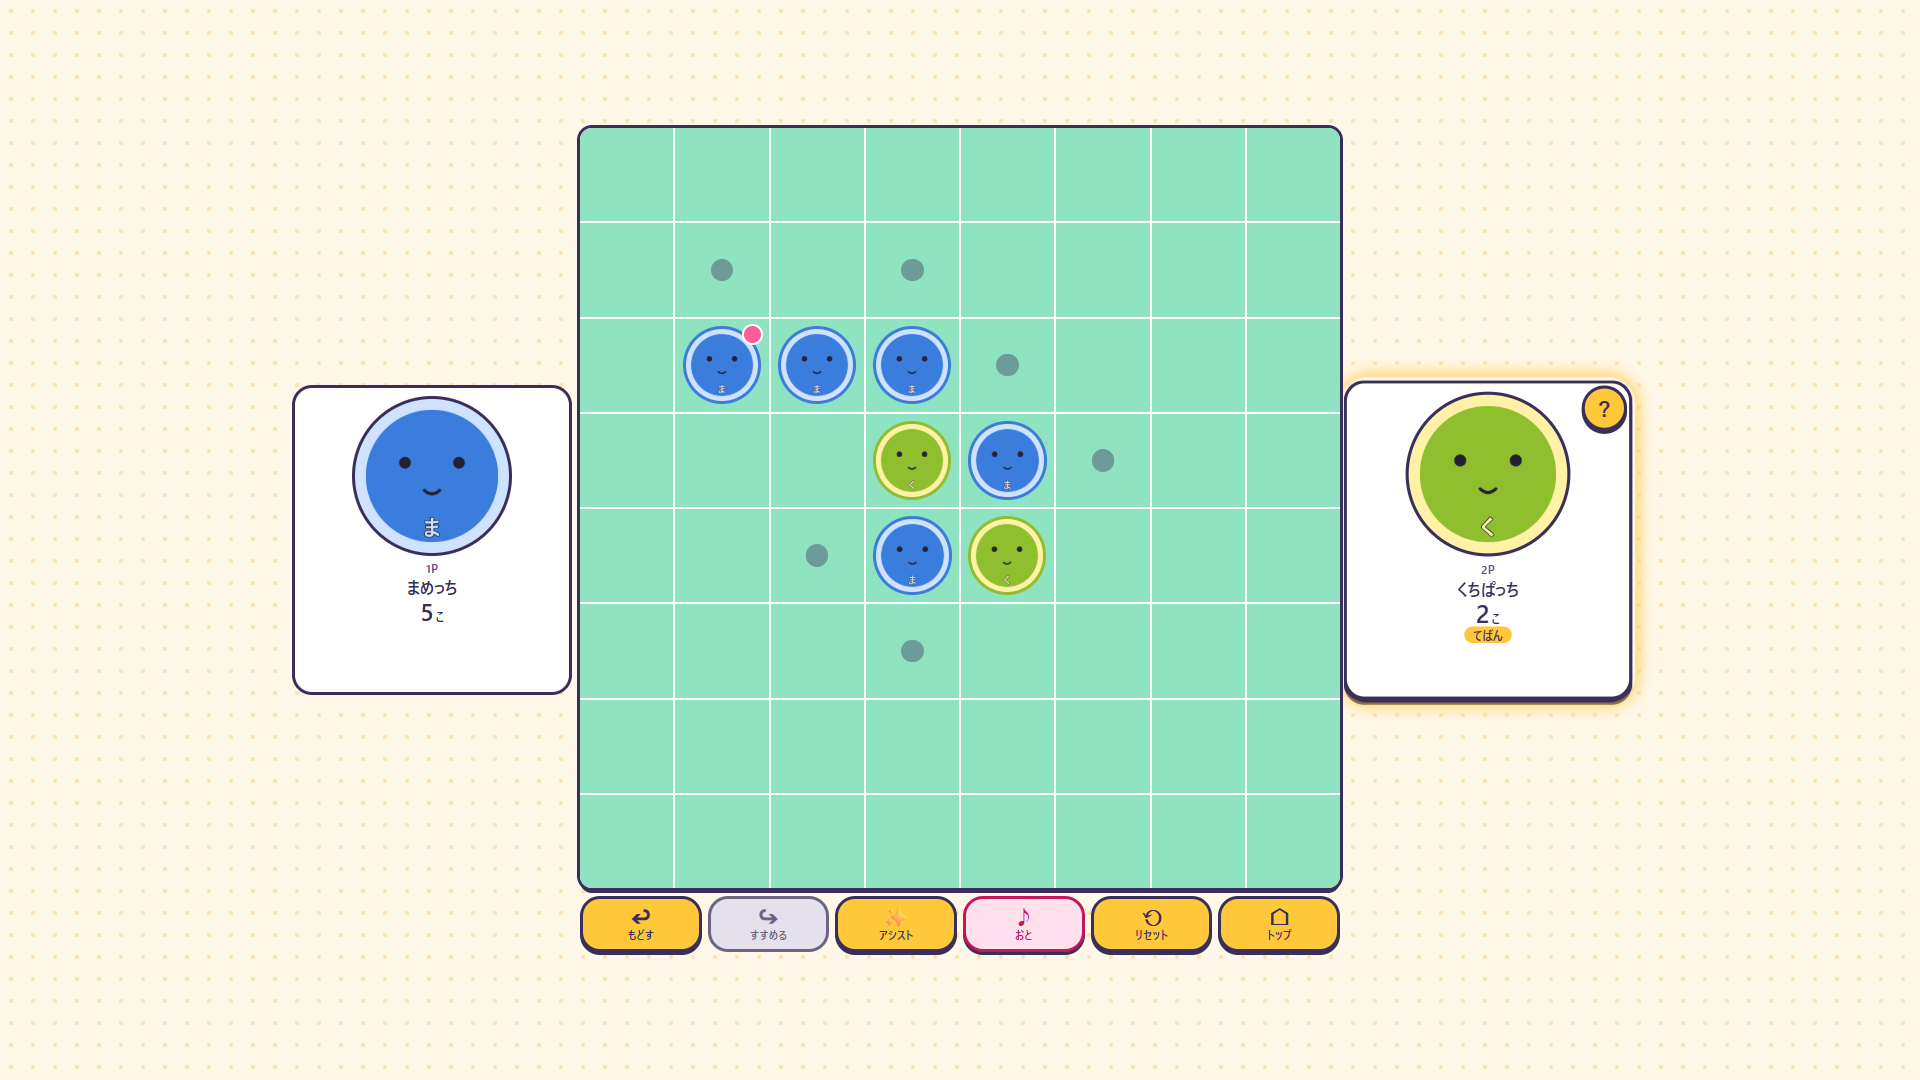
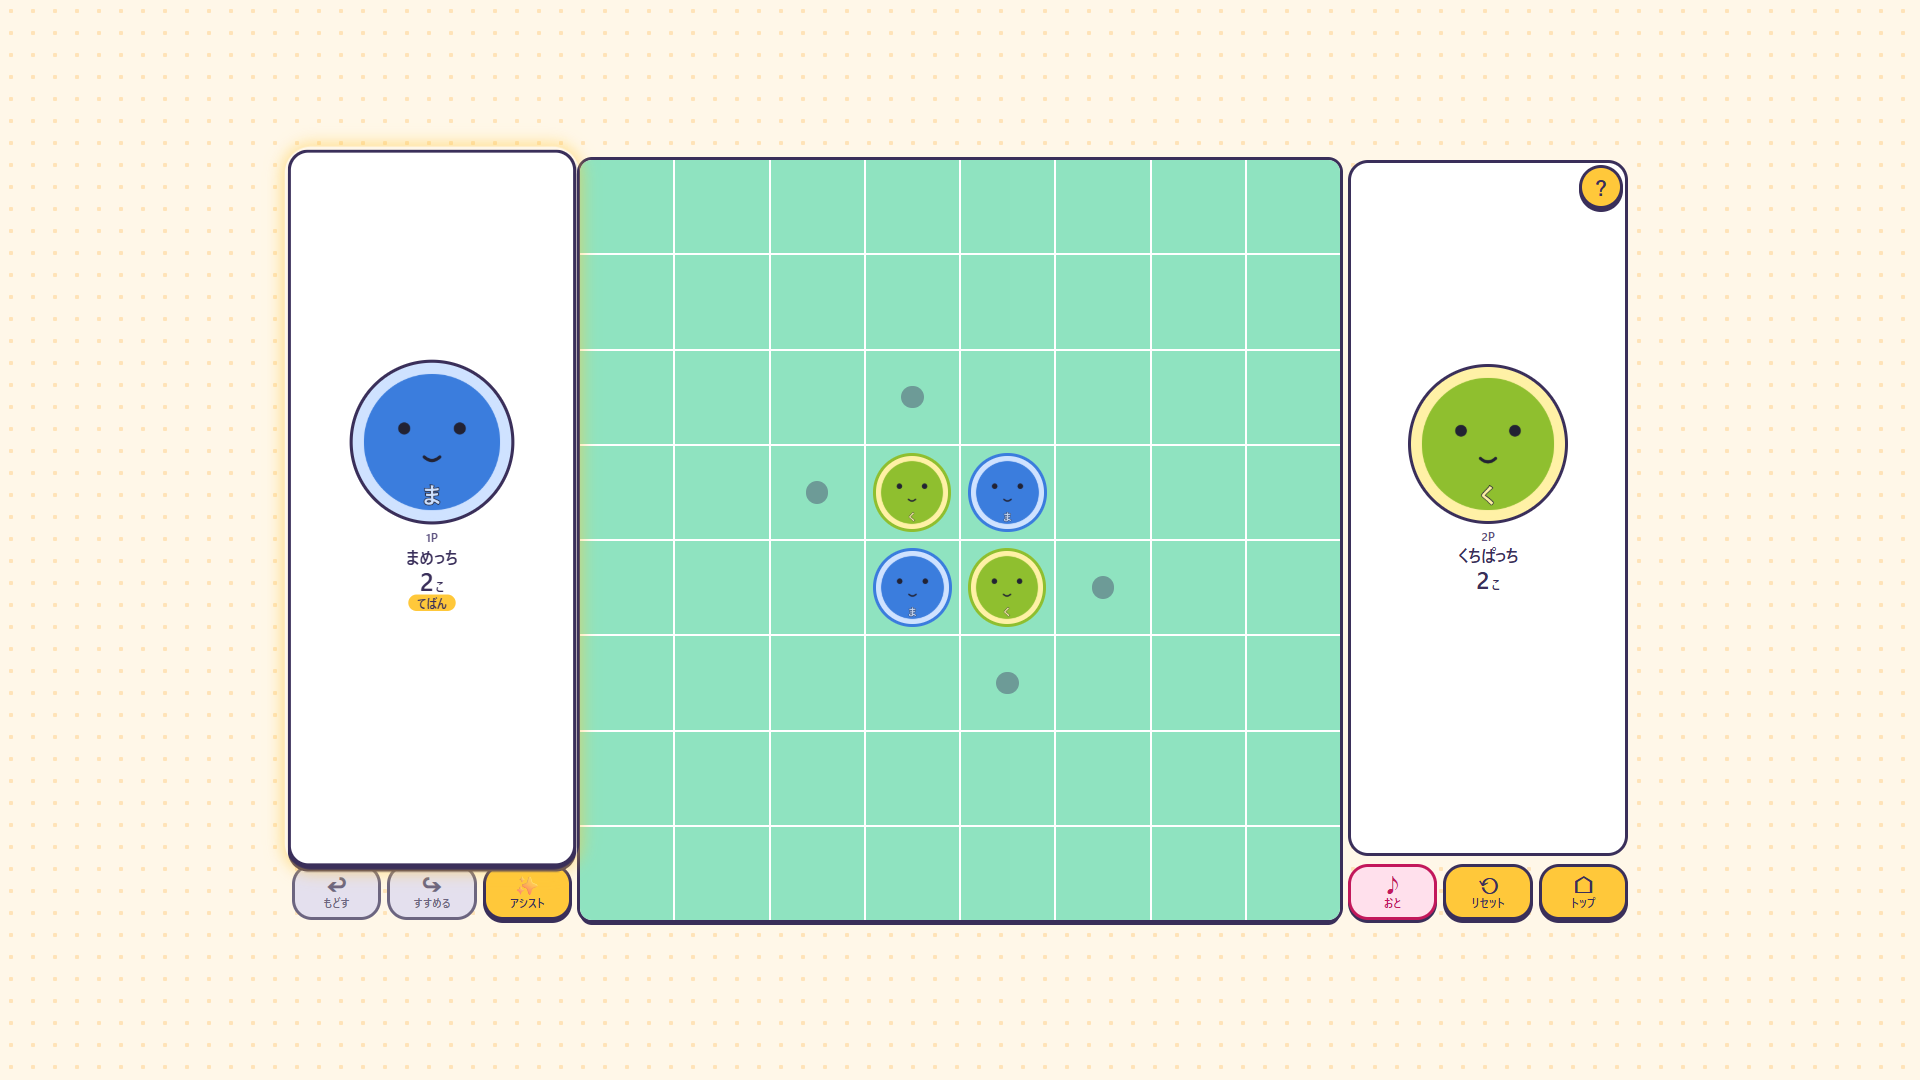
fix: 再開始時のアバター初期化と横向きの操作ボタン配置を修正

diff --git a/css/game.css b/css/game.css
@@ -47,7 +47,7 @@
   position: absolute;
   inset: -6px;
   border-radius: calc(var(--radius-m) + 6px);
-  box-shadow: 0 0 14px 4px var(--glow);
+  box-shadow: var(--glow-shadow);
   opacity: 0;
   pointer-events: none;
   transition: opacity var(--t-ui) ease;
@@ -212,6 +212,7 @@
 
 /* Controls */
 .controls { display: grid; grid-template-columns: repeat(6, minmax(0, 1fr)); gap: 6px; }
+.ctl-group { display: contents; }
 .ctl {
   display: flex;
   flex-direction: column;
@@ -242,24 +243,28 @@
   to { transform: rotateY(var(--rot)) scale(1); opacity: 1; }
 }
 
-/* Landscape and desktop: left = 1P, center = board, right = 2P, buttons under the board */
+/* Landscape and desktop: left = 1P, center = board, right = 2P, buttons under each panel (3 + 3) */
 @media (orientation: landscape) {
   .game {
     --controls-h: 56px;
     --avatar-size: clamp(56px, 22vmin, 160px);
     --board-size: min(
-      calc(100dvh - var(--controls-h) - 3 * var(--gap) - env(safe-area-inset-top) - env(safe-area-inset-bottom)),
+      calc(100dvh - 2 * var(--gap) - env(safe-area-inset-top) - env(safe-area-inset-bottom)),
       calc(100vw - 2 * var(--panel-w-min) - 4 * var(--gap) - env(safe-area-inset-left) - env(safe-area-inset-right)),
       var(--board-max)
     );
     grid-template-columns: minmax(0, var(--panel-w-max)) var(--board-size) minmax(0, var(--panel-w-max));
-    grid-template-rows: var(--board-size) var(--controls-h);
-    grid-template-areas: "p1 board p2" "p1 controls p2";
+    grid-template-rows: calc(var(--board-size) - var(--controls-h) - var(--gap)) var(--controls-h);
+    grid-template-areas: "p1 board p2" "c1 board c2";
     align-content: center;
     padding-inline: var(--gap);
   }
-  .game .side-p1, .game .side-p2 { align-self: center; }
-  .char-panel { flex-direction: column; justify-content: flex-start; gap: 4px; padding: 8px; text-align: center; }
+  .game .side-p1, .game .side-p2 { align-self: stretch; }
+  .controls { display: contents; }
+  .ctl-group { display: grid; grid-template-columns: repeat(3, minmax(0, 1fr)); gap: 6px; }
+  .ctl-group.c1 { grid-area: c1; }
+  .ctl-group.c2 { grid-area: c2; }
+  .char-panel { flex-direction: column; justify-content: center; gap: 4px; padding: 8px; text-align: center; }
   .panel-info { align-items: center; }
   .bubble-slot { flex: none; align-self: stretch; min-height: 2.5em; }
   .help-btn { top: 2px; right: 2px; }

diff --git a/js/ui/ui-manager.js b/js/ui/ui-manager.js
@@ -477,6 +477,7 @@
     if (!G) { return; }
     closeResult();
     G.ctrl.start(G.settings);
+    afterHistoryMove();
     G.ctrl.notifyActivity();
   }
 
@@ -592,7 +593,12 @@
         confirmDialog('トップへ もどる？').then(function (ok) { if (ok) { leaveGame(false); } });
       })
     };
-    ['undo', 'redo', 'assist', 'sound', 'reset', 'top'].forEach(function (k) { ctl.appendChild(G.btn[k]); });
+    // Two groups: portrait shows them as one row of 6, landscape puts one group under each panel.
+    [['c1', ['undo', 'redo', 'assist']], ['c2', ['sound', 'reset', 'top']]].forEach(function (g) {
+      var group = el('div', 'ctl-group ' + g[0]);
+      g[1].forEach(function (k) { group.appendChild(G.btn[k]); });
+      ctl.appendChild(group);
+    });
 
     var game = el('div', 'game');
     game.appendChild(G.panels.p2.root);

diff --git a/tests/controller.test.js b/tests/controller.test.js
@@ -86,6 +86,10 @@
       // rng() = 0.5 is not below 0.5, so p2 gets BLACK.
       expect(setup({ first: 'random' }).ctrl.getView().colors.p2).toBe(E.BLACK);
     });
+    it('getSettings returns the settings passed to start', function () {
+      var t = setup({ first: 'p2' });
+      expect(t.ctrl.getSettings().first).toBe('p2');
+    });
     it('emits gameStart lines for both players and no turnStart', function () {
       var lines = events(setup().log, 'line');
       expect(lines.map(function (l) { return l.player + ':' + l.situation; })).toEqual(['p1:gameStart', 'p2:gameStart']);

diff --git a/css/theme.css b/css/theme.css
@@ -36,6 +36,7 @@
   --assist-ring: #ffc83a;
   --last-mark: #ff5c9a;
   --glow: rgba(255, 200, 58, 0.75);
+  --glow-shadow: 0 0 14px 4px var(--glow);
 
   /* Shape */
   --radius-s: 12px;
